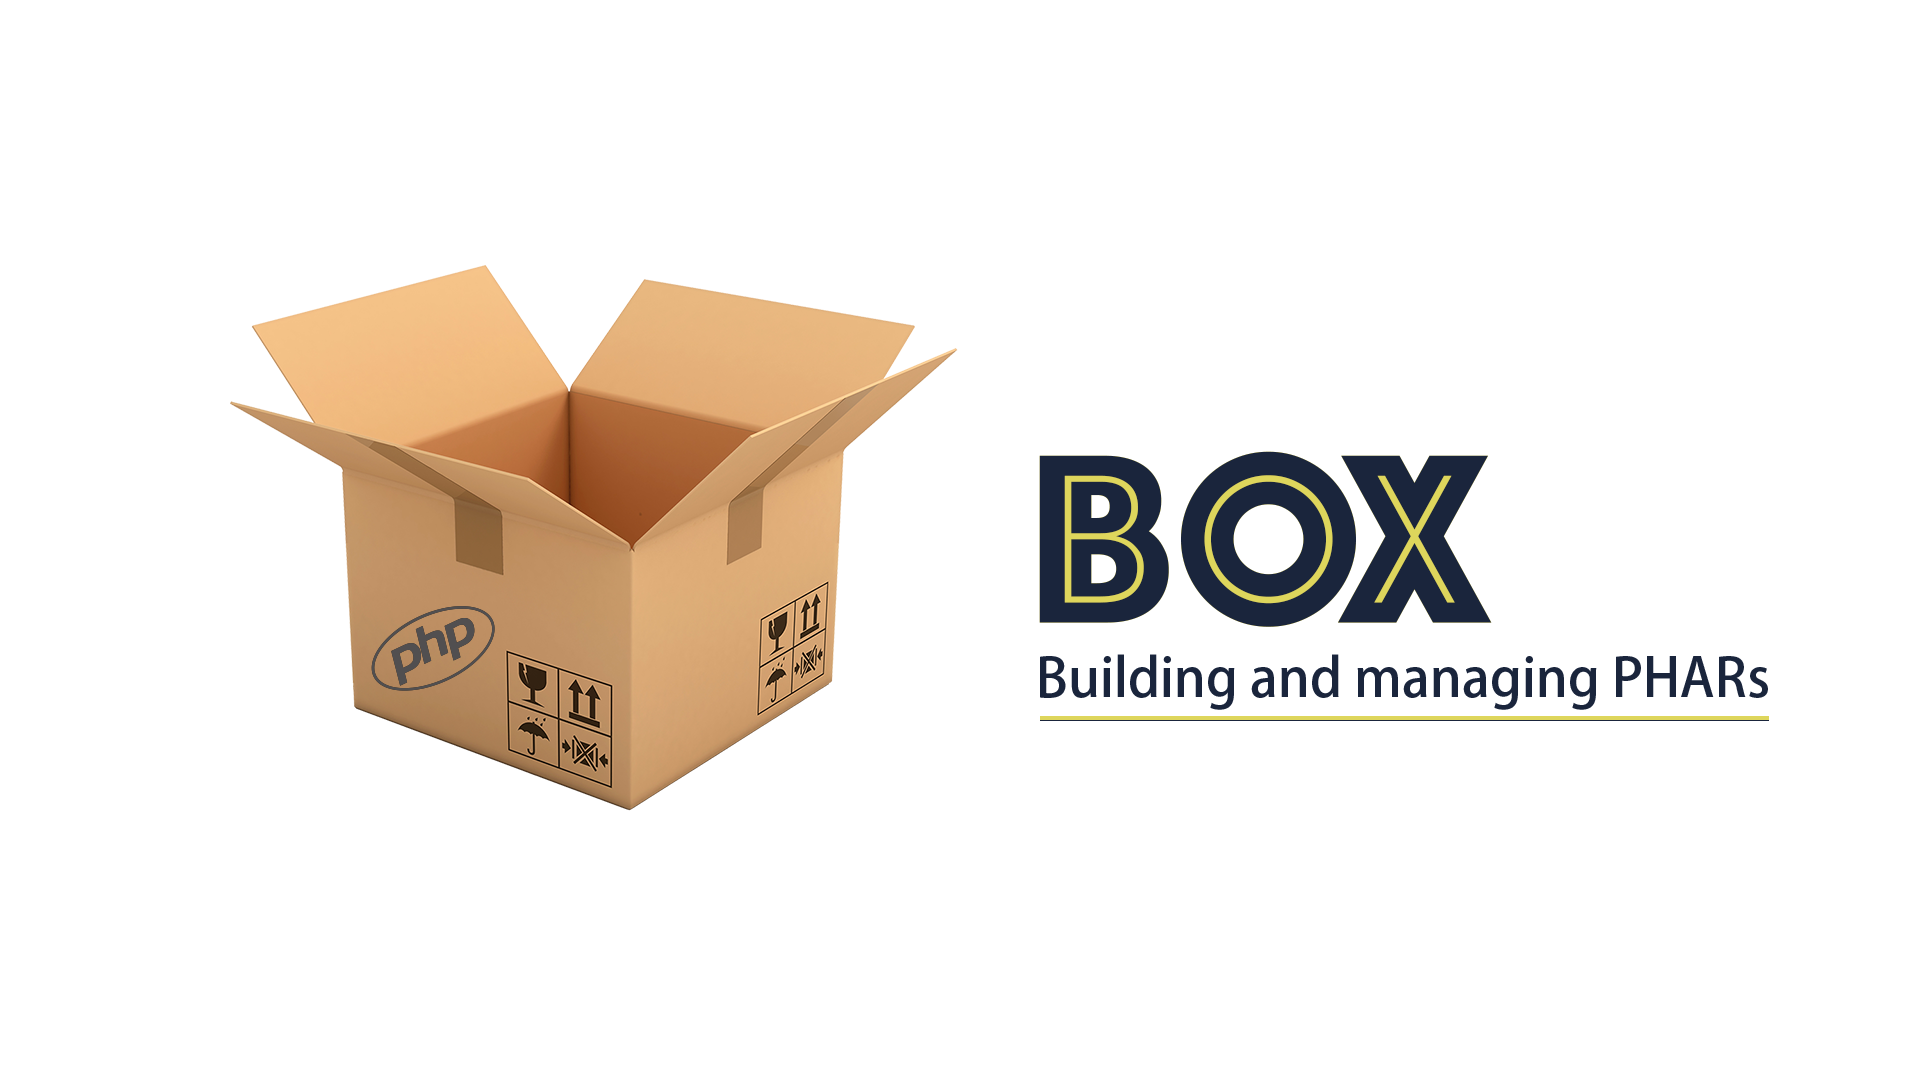
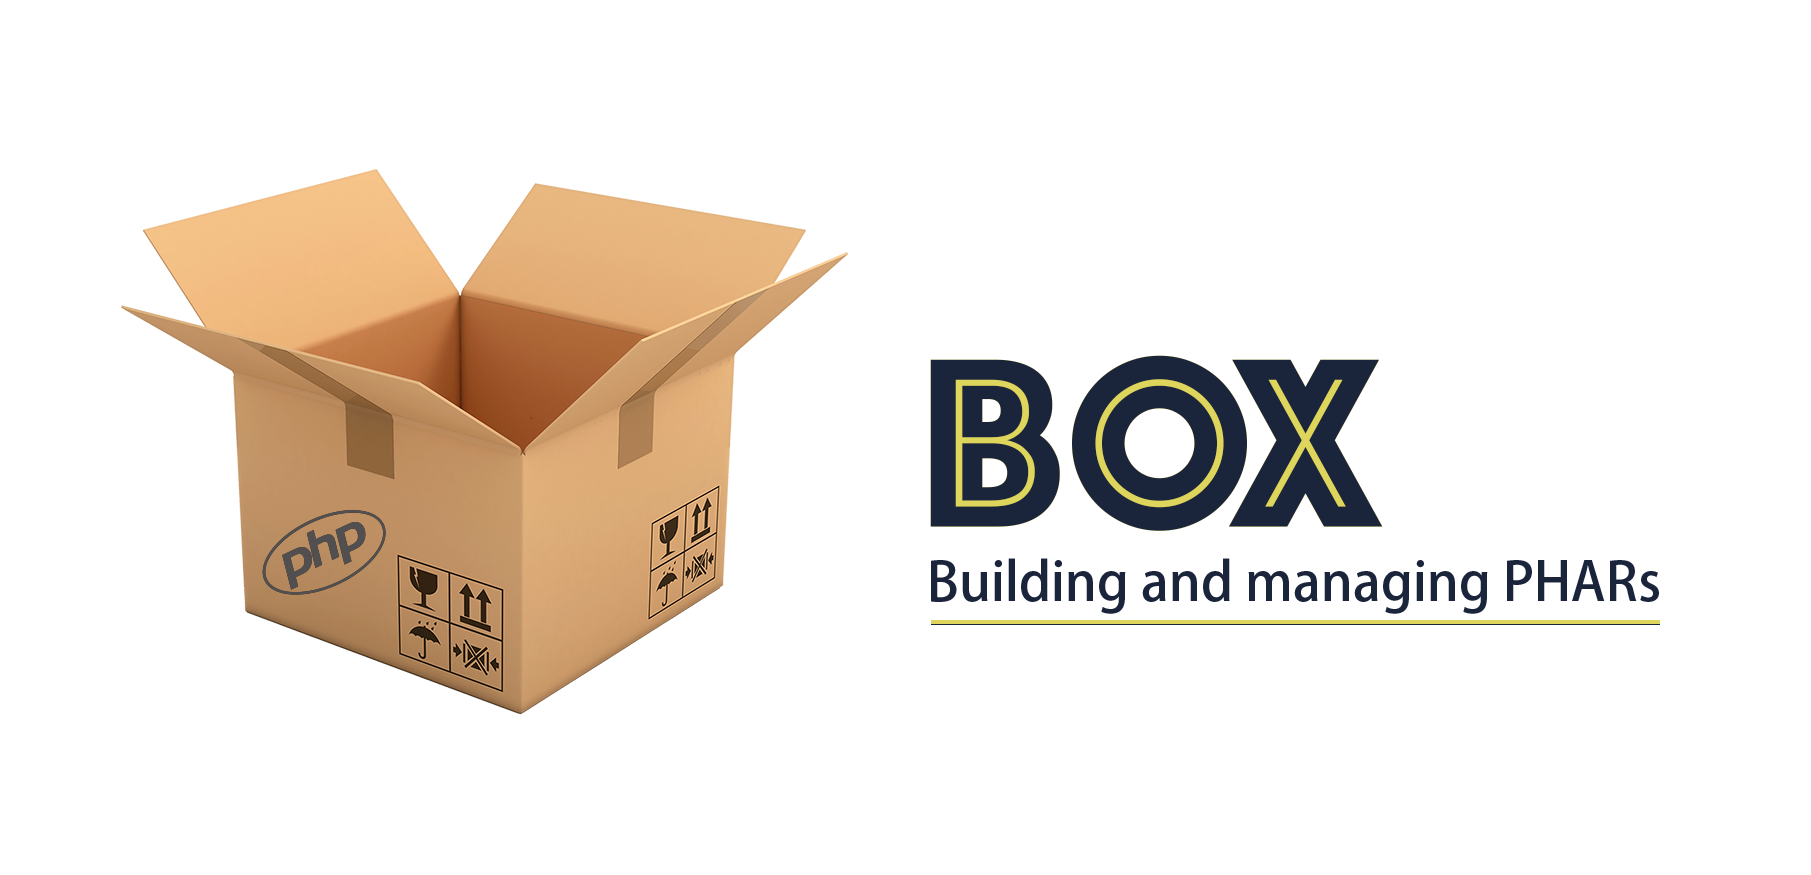
resize

Changed region(s): [[0.0618, 0.1851, 0.4948, 0.8331], [0.4948, 0.4011, 0.9277, 0.7406]]

diff --git a/README.md b/README.md
@@ -1,5 +1,5 @@
 <p align="center">
-    <img src="doc/img/box.png" width=300 />
+    <img src="doc/img/box.png" width=900 />
 </p>
 
 <h1 align=center>Box - Building and managing your PHARs</h1>
